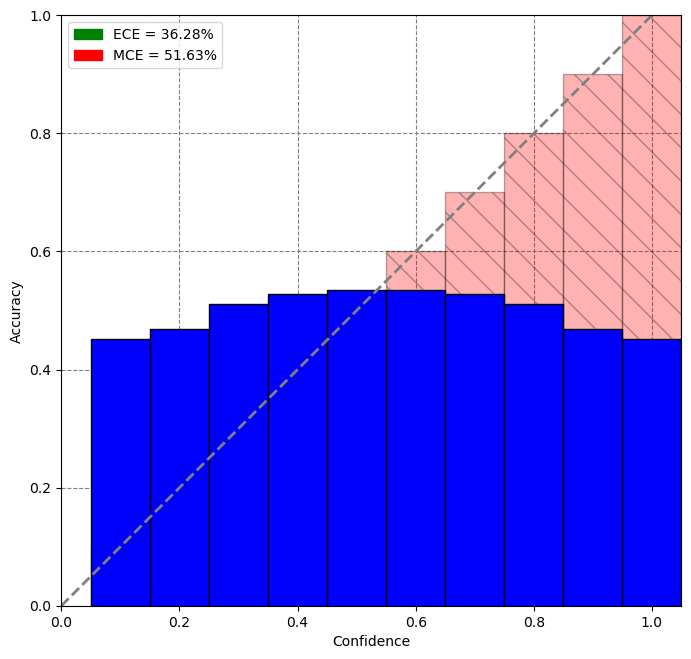
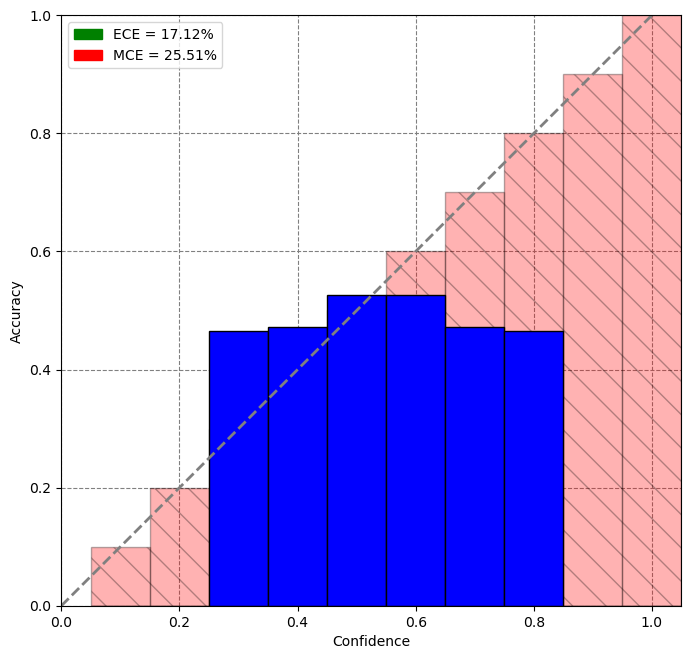
fixed some issues

Changed region(s): [[0.1216, 0.4249, 1.0, 0.9408], [0.2431, 0.0303, 0.3039, 0.091]]

diff --git a/age_estimation/stats.py b/age_estimation/stats.py
@@ -223,7 +223,7 @@ def test(model, test_loader):
             all_features.append(features.reshape(features.shape[0]))
             test_loss += criterion(output, target.long()).item()
             pred = output #.argmax(dim=1, keepdim=True)
-            all_preds.append(pred)
+            all_preds.append(pred.softmax(-1))
         
             total_elts += target.shape[0]
             if total_elts >= 10000:
